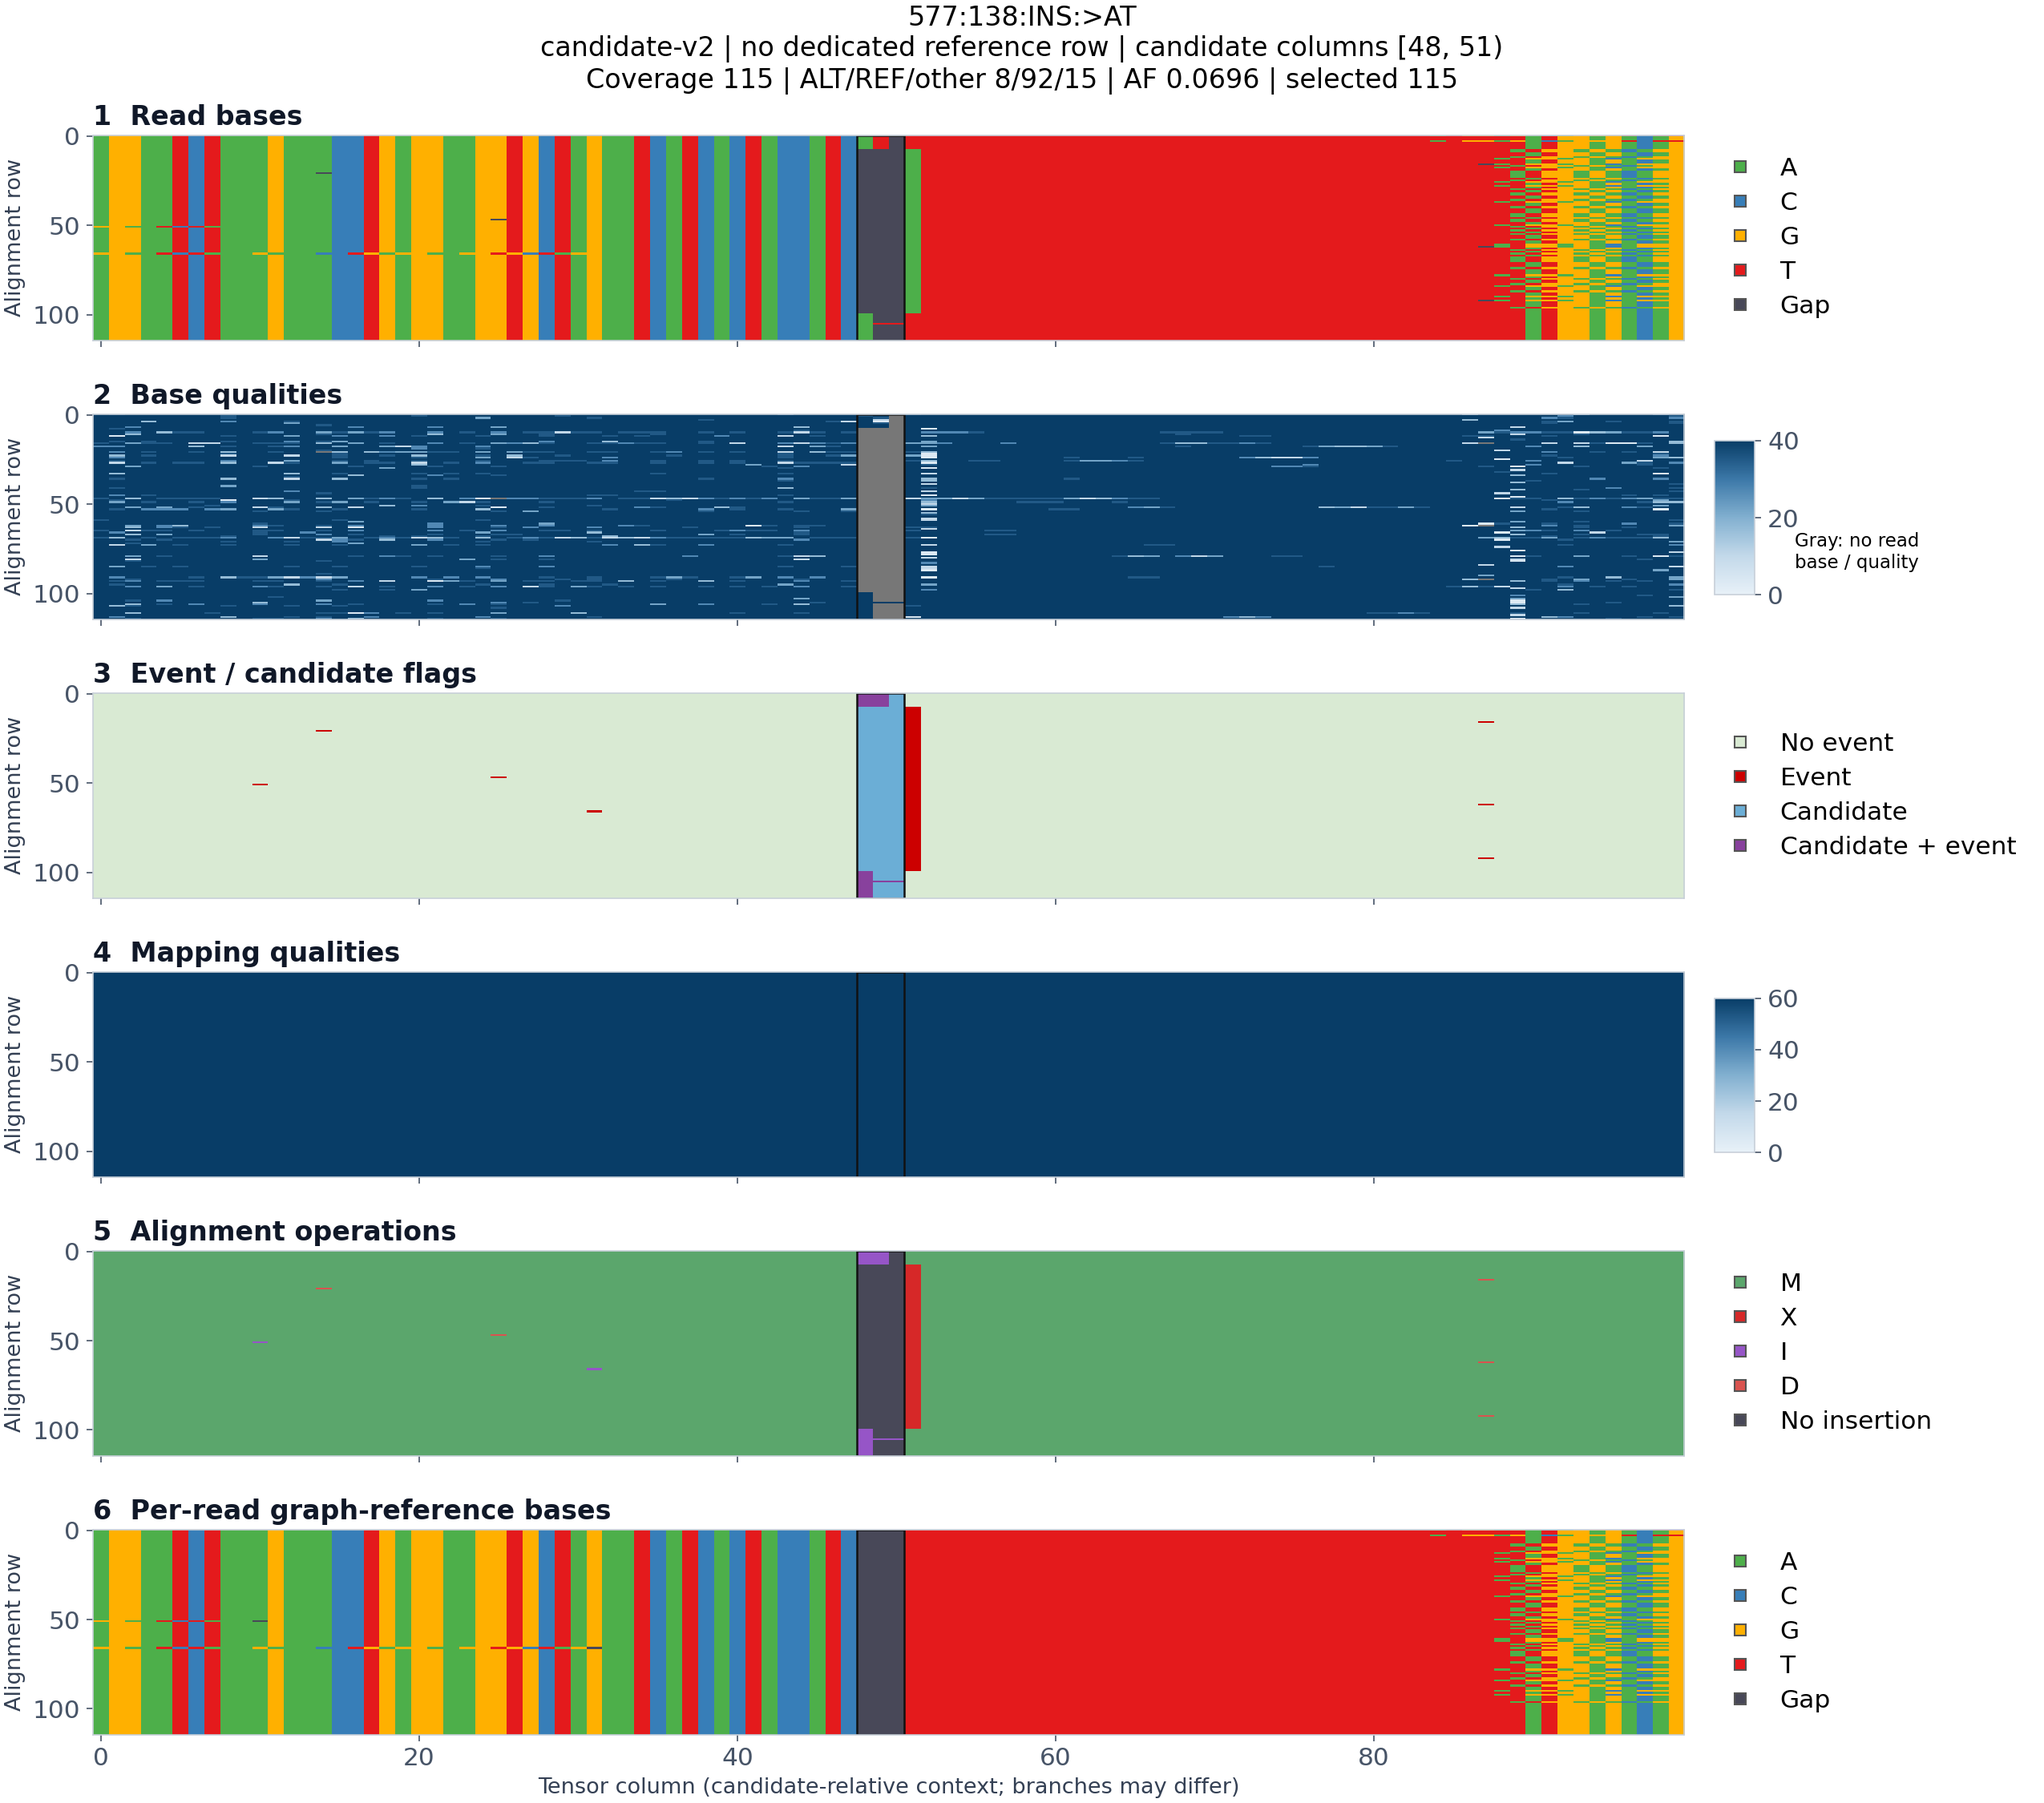
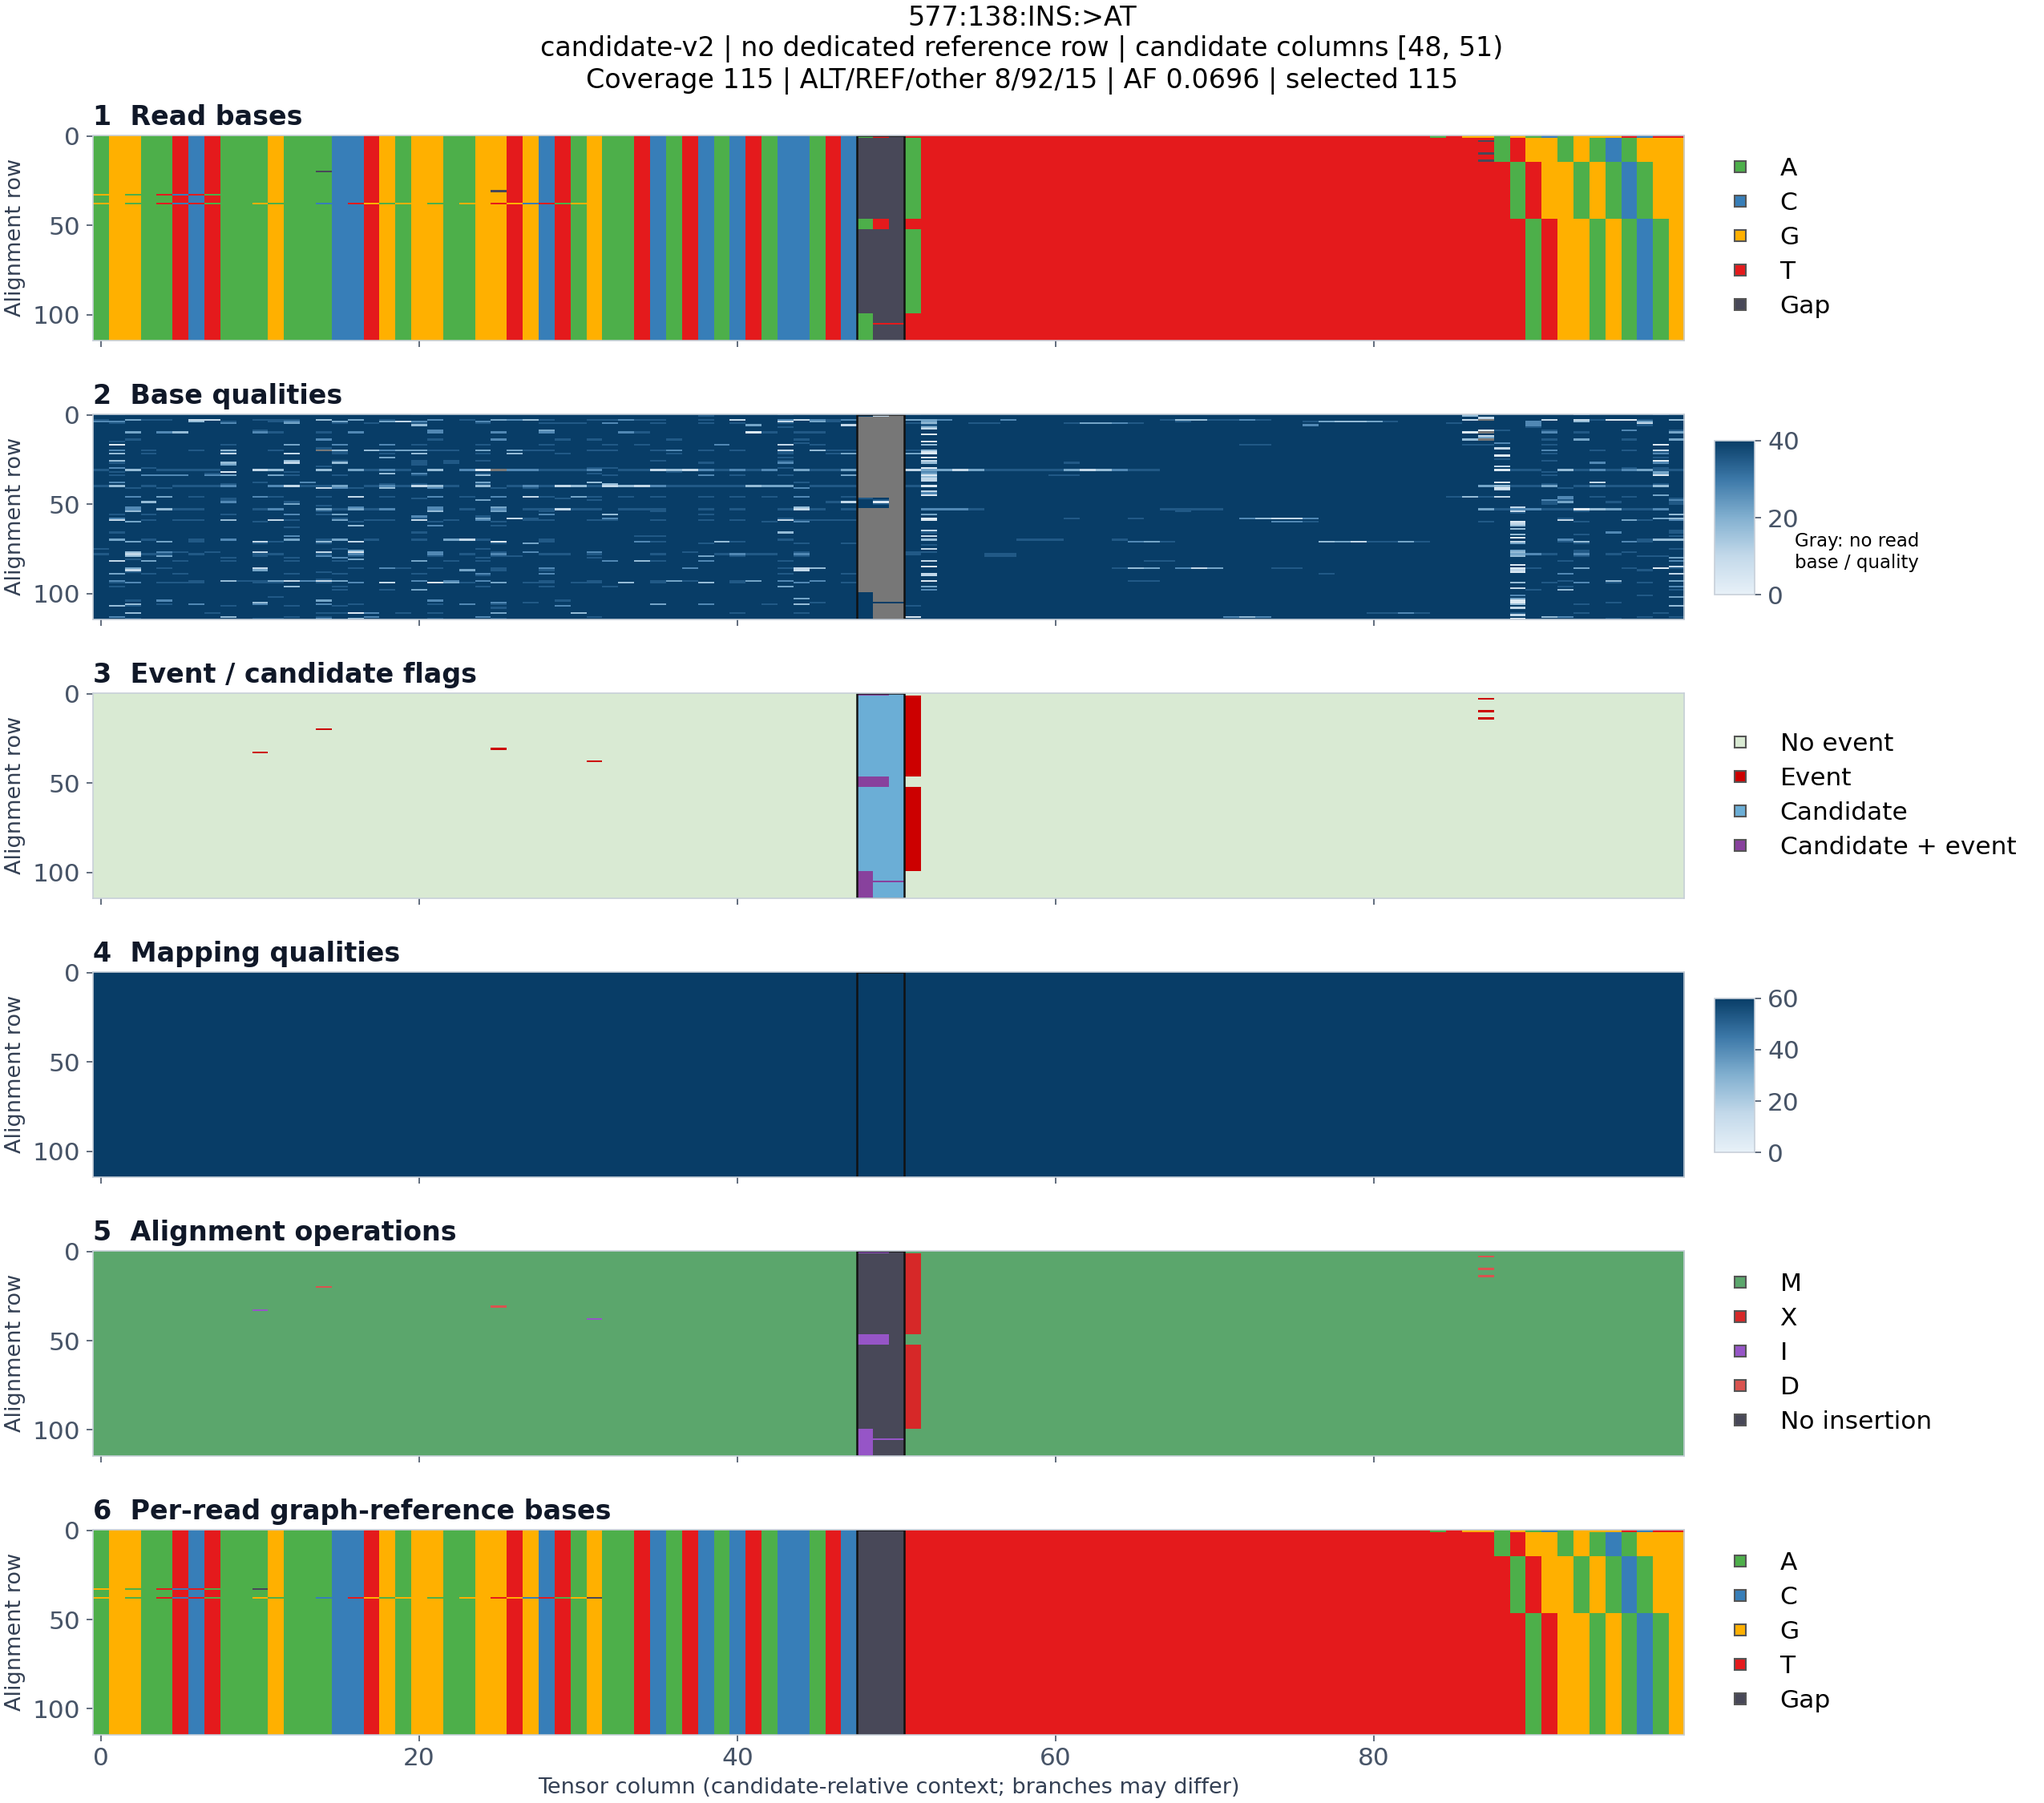
Group candidate tensor rows by visible node path

diff --git a/indexed_gam_pipeline/candidates.py b/indexed_gam_pipeline/candidates.py
@@ -11,6 +11,7 @@ from types import SimpleNamespace
 import numpy as np
 
 VERSION = "indexed-gam-candidate-v2"
+ROW_ORDER = "candidate-oriented visible node path; within each path retain selection order"
 CHANNELS = ["read_base", "base_quality", "event_flags", "mapping_quality",
             "alignment_operation", "row_graph_reference_base"]
 BASES = {"A": 1, "C": 2, "G": 3, "T": 4, "N": 5, "-": 6}
@@ -271,6 +272,7 @@ def make_tensor(candidate, eligible, rows=200, width=100, debug=False):
     tensor = np.zeros((6, rows, width), dtype=np.int16)
     details = []
     omitted = []
+    row_paths = []
     selected = eligible[:rows]
     for ri, (read, support, visit) in enumerate(selected):
         cols = oriented_columns(read, visit, width)
@@ -299,6 +301,17 @@ def make_tensor(candidate, eligible, rows=200, width=100, debug=False):
         row = [None] * max(0, start-len(left)) + left[-start:] if start else []
         row += center + right[:width-start-span]
         row += [None] * (width-len(row))
+        # Group only the path actually visible in this candidate window. Distant
+        # branches outside the window must not split otherwise identical groups.
+        # Keep mapping transitions (including repeated visits), but ignore offsets
+        # and insertion/gap lengths when identifying a node path.
+        path = []
+        previous_visit = None
+        for col in row:
+            if col is not None and col.visit != previous_visit:
+                path.append((col.node, col.reverse))
+                previous_visit = col.visit
+        row_paths.append(tuple(path))
         for ci, col in enumerate(row):
             if col is not None:
                 tensor[:, ri, ci] = [BASES.get(col.read, 5), col.quality,
@@ -318,8 +331,25 @@ def make_tensor(candidate, eligible, rows=200, width=100, debug=False):
                 path=[dict(node_id=v.node, start=v.start, end=v.end, reverse=v.reverse,
                            mapping_index=v.index) for v in read.visits],
                 columns=[c.graph() if c is not None else None for c in row]))
+    # Selection remains support/MAPQ/hash-based. This final stable permutation
+    # groups paths without changing which records made the row cap.
+    order = sorted(range(len(selected)), key=lambda i: row_paths[i])
+    tensor[:, :len(selected), :] = tensor[:, order, :]
+    if debug:
+        details = [details[i] for i in order]
+    new_indices = {old: new for new, old in enumerate(order)}
+    omitted = sorted((dict(item, row_index=new_indices[item["row_index"]]) for item in omitted),
+                     key=lambda item: item["row_index"])
+    groups = []
+    for ri, original in enumerate(order):
+        path = [dict(node_id=node, reverse=reverse) for node, reverse in row_paths[original]]
+        if not groups or groups[-1]["path"] != path:
+            groups.append(dict(start_row=ri, end_row=ri+1, path=path))
+        else:
+            groups[-1]["end_row"] = ri+1
     counts = Counter(s for _, s, _ in eligible)
     return tensor, dict(candidate.metadata(), tensor_format_version=VERSION,
+        row_order=ROW_ORDER, row_groups=groups,
         candidate_columns=[start, start+span], coverage=len(eligible),
         alt_count=counts["alt"], ref_count=counts["ref"], other_count=counts["other"],
         af=counts["alt"]/len(eligible) if eligible else 0,

diff --git a/indexed_gam_pipeline/tests/test_candidates.py b/indexed_gam_pipeline/tests/test_candidates.py
@@ -155,6 +155,7 @@ class CandidatesTest(unittest.TestCase):
         self.assertEqual(m["alt_count"],2)
         self.assertEqual(m["rows"][0]["anchor_mapping_index"],2)
         self.assertEqual(len(m["rows"][0]["path"]),3)
+        self.assertEqual([n["node_id"] for n in m["row_groups"][0]["path"]],[1,2,1])
 
     def test_adjacent_edits_limits_and_central_context_insertions(self):
         seq = {1: "A"*60}
@@ -209,6 +210,44 @@ class CandidatesTest(unittest.TestCase):
         _,m=make_tensor(c,eligible(c,[r]))
         self.assertEqual(m["coverage"],1)
         self.assertEqual(m["other_count"],1)
+
+    def test_node_path_grouping_preserves_selection_counts_and_channels(self):
+        seq={1:"AC",2:"GG",3:"TT"}
+        rows=[]
+        for branch,base in ((3,"T"),(2,"C"),(2,"T"),(3,"C")):
+            edits=[(1,1,""),(1,1,"T")] if base=="T" else [(2,2,"")]
+            rows.append(read([(branch,0,False,[(2,2,"")]),(1,0,False,edits)],seq))
+        c=Candidate(1,1,"C","T","SNP")
+        e=eligible(c,rows)
+        x,m=make_tensor(c,e,rows=6,width=9,debug=True)
+        self.assertEqual([r["support"] for r in m["rows"]],["alt","ref","alt","ref"])
+        self.assertEqual([(g["start_row"],g["end_row"]) for g in m["row_groups"]],[(0,2),(2,4)])
+        self.assertEqual([g["path"][0]["node_id"] for g in m["row_groups"]],[2,3])
+        self.assertEqual((m["coverage"],m["alt_count"],m["ref_count"],m["af"]),(4,2,2,.5))
+        self.assertFalse(x[:,4:].any())
+        # All six channels and debug column maps travel with their record.
+        for ri,detail in enumerate(m["rows"]):
+            original=next(item for item in e if item[0].digest==detail["record_sha256"])
+            single,meta=make_tensor(c,[original],rows=1,width=9,debug=True)
+            np.testing.assert_array_equal(x[:,ri],single[:,0])
+            self.assertEqual(detail["columns"],meta["rows"][0]["columns"])
+        capped,small=make_tensor(c,e,rows=2,width=9,debug=True)
+        self.assertEqual(small["selected_counts"],{"alt":2})
+        self.assertEqual(small["coverage"],4)
+        self.assertEqual(small["af"],.5)
+        shuffled,_=make_tensor(c,list(reversed(e)),rows=6,width=9)
+        np.testing.assert_array_equal(x,shuffled)
+
+    def test_node_group_key_ignores_distant_branches_and_normalizes_strand(self):
+        seq={1:"AC",2:"G"*20,3:"TT",4:"AA"}
+        a=read([(3,0,False,[(2,2,"")]),(2,0,False,[(20,20,"")]),
+                (1,0,False,[(1,1,""),(1,1,"T")])],seq)
+        b=read([(1,0,True,[(1,1,"A"),(1,1,"")]),(2,0,True,[(20,20,"")]),
+                (4,0,True,[(2,2,"")])],seq)
+        c=a.observations[0].candidate
+        _,m=make_tensor(c,eligible(c,[a,b]),width=9,debug=True)
+        self.assertEqual(len(m["row_groups"]),1)
+        self.assertEqual(m["row_groups"][0]["path"],[{"node_id":2,"reverse":False},{"node_id":1,"reverse":False}])
 
     def test_synthetic_shards_summary_manifest(self):
         with tempfile.TemporaryDirectory() as directory:

diff --git a/indexed_gam_pipeline/build_v2.py b/indexed_gam_pipeline/build_v2.py
@@ -5,7 +5,7 @@ from pathlib import Path
 
 import numpy as np
 
-from indexed_gam_pipeline.candidates import (VERSION, CHANNELS, BASES, OPS,
+from indexed_gam_pipeline.candidates import (VERSION, CHANNELS, BASES, OPS, ROW_ORDER,
                                              decode_alignment, overlap, make_tensor)
 from indexed_gam_pipeline.gam_reader import IndexedGam
 from indexed_gam_pipeline.segments import on_chromosome
@@ -33,6 +33,7 @@ def build(args):
         insertion_overlap="closed boundary [mapping.start,mapping.end]; REF requires adjacent M/X columns on both sides",
         repeated_visits="one count and row per record; ALT then REF then other, earliest mapping breaks ties",
         row_selection="ALT then REF then other; descending MAPQ then record SHA256; identical records retained",
+        row_order=ROW_ORDER,
         gai_version=reader.version, nodes=len(nodes), shards=0, tensors=0,
         unsupported_events=0, filtered_candidates=0, debug_rows=args.debug_rows)
     write_json(out / "run_report.json", manifest)

diff --git a/indexed_gam_pipeline/samples/README.md b/indexed_gam_pipeline/samples/README.md
@@ -34,6 +34,19 @@ AF-only differences in the matching cases are legacy rounding to four decimals.
 These formats intentionally differ in shape, encoding, context and row order;
 whole-tensor element equality is not expected.
 
+## Node-path grouping
+
+The v2 previews now group rows by the ordered node path visible in each candidate
+window, normalized to the candidate orientation. Identical paths are contiguous;
+within a group, ALT/REF/other and quality-based selection order is retained.
+Grouping happens after row selection and permutes all six channels together.
+No reads, base values, counts or AF values change. The compact summary includes
+`row_groups` with half-open row ranges and their node paths.
+
+[Real-data grouping checks](grouping_validation.json) confirmed identical
+six-channel row multisets, record/column-map pairing and full statistics for all
+five tensors. Nodes outside the displayed window do not fragment the groups.
+
 ## Reading the images
 
 V2 has six panels in channel order: read bases, base qualities, event/candidate
@@ -57,8 +70,8 @@ these images and visualization tests used the existing
 (NumPy 1.26.4, Matplotlib 3.10.8). No packages were installed or downgraded.
 
 ```bash
-python scripts/visualize_tensor.py tmp/indexed_gam_candidate_v2_verified/shard_00000_data.npy \
-  --all-samples --output-dir tmp/indexed_gam_candidate_v2_verified/images
+python scripts/visualize_tensor.py tmp/indexed_gam_candidate_v2_grouped/shard_00000_data.npy \
+  --all-samples --output-dir tmp/indexed_gam_candidate_v2_grouped/images
 ```
 
 The visualizer loads adjacent `manifest.json` and `variant_summary.ndjson`.

diff --git a/indexed_gam_pipeline/LOCAL_TEST_REPORT.md b/indexed_gam_pipeline/LOCAL_TEST_REPORT.md
@@ -1,3 +1,28 @@
+# Node-path row grouping — 2026-09-18
+
+Added a stable final row permutation to group candidate-v2 tensors by the ordered
+node IDs and orientations visible in the candidate window. Selection still uses
+ALT/REF/other, MAPQ and record hash before applying the row cap. Each group retains
+that selection order. Full statistics, selected records, all six channel values,
+and debug row/column mappings are unchanged. Legacy output is unchanged.
+
+**23 pipeline regression tests passed**, including new tests for grouping across
+support classes, retained ALT selection under a row cap, deterministic input
+reordering, unchanged per-record six-channel rows, orientation normalization,
+repeated visits, and ignoring distant branches outside the window.
+
+Rebuilt the same three-node HG008 subset at
+`tmp/indexed_gam_candidate_v2_grouped/`. All five candidates have identical
+coverage, ALT/REF/other counts, AF, selected records and candidate columns.
+Each tensor's complete six-channel row multiset is byte-identical to its previous
+version, and every debug row remains paired with the correct tensor row.
+Group memberships were independently reconstructed from debug graph coordinates.
+The grouped PNGs replace the v2 gallery previews; bulk arrays stay server-local.
+See `samples/grouping_validation.json` for per-candidate group counts.
+No genome-scale run was performed.
+
+---
+
 # Follow-up: legacy count audit and image visualization — 2026-09-18
 
 Rebuilt legacy tensors for the same three nodes using `--variant-type all`:

diff --git a/indexed_gam_pipeline/README.md b/indexed_gam_pipeline/README.md
@@ -59,9 +59,15 @@ Candidate and counting contract:
   insufficient evidence. MAPQ applies to every counted record.
 - Each record counts once per candidate. With repeated visits, choose ALT over
   REF over other, then earliest mapping. Preserve the complete alignment in its
-  single row. Full counts and AF are computed before row selection. Rows sort by
-  ALT/REF/other, descending MAPQ, then serialized-record SHA256. Duplicate records
-  remain distinct; identical ties produce identical rows.
+  single row. Full counts and AF are computed before row selection. Row selection uses
+  ALT/REF/other, descending MAPQ, then serialized-record SHA256. After selection,
+  rows are stably grouped by their candidate-oriented node path visible in the
+  tensor window, ordered lexicographically by node ID and orientation. Within
+  each path group, the selection order is retained. All six channels and debug
+  metadata move together; counts, AF and the selected record set are unchanged.
+  Distant nodes outside the window do not split groups. Repeated visible visits
+  remain in the path key. `row_groups` gives half-open row ranges and node paths;
+  `row_order` records the rule. Duplicate records remain distinct.
 
 Window and encoding contract:
 
